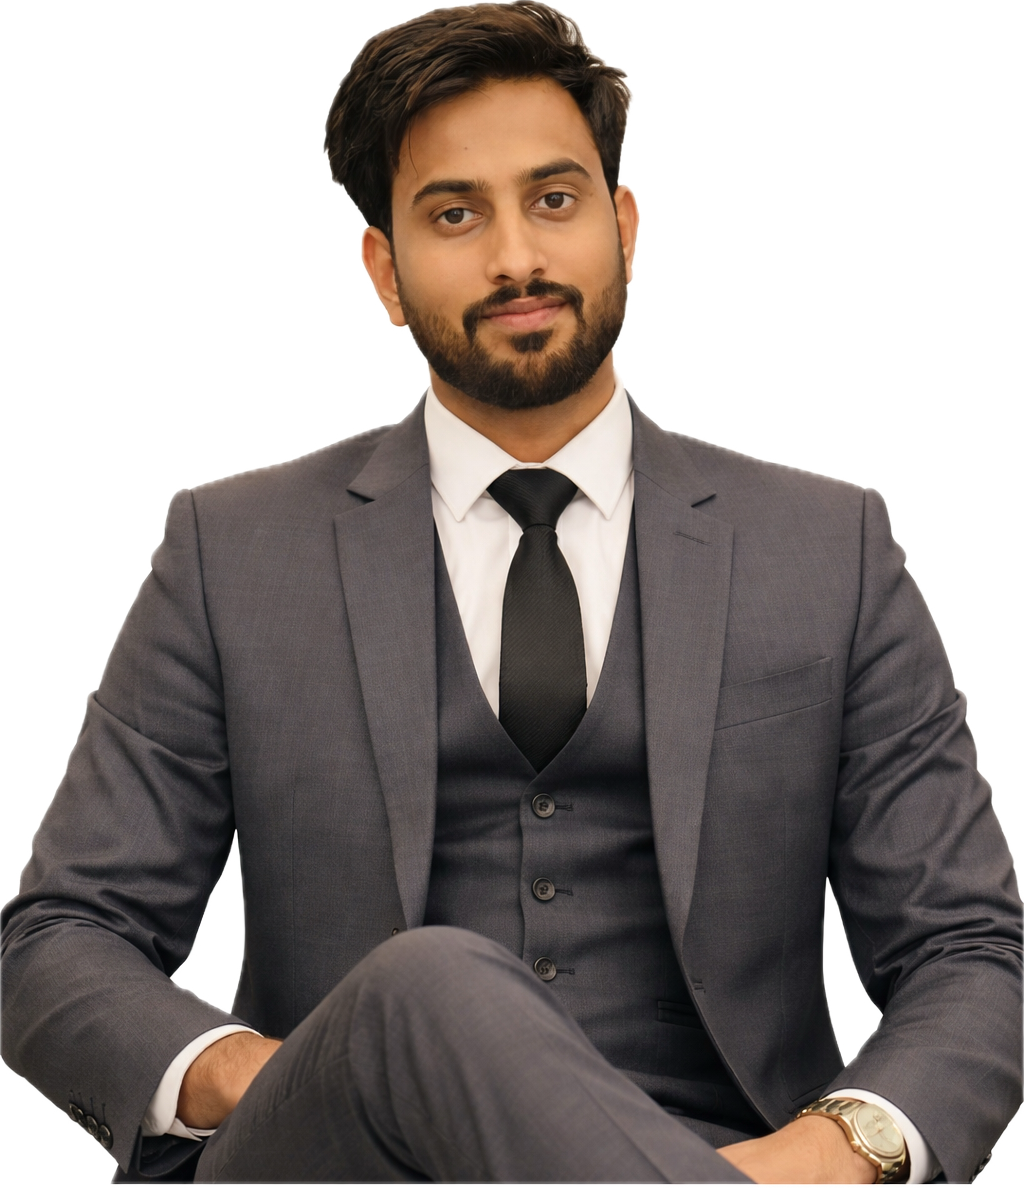
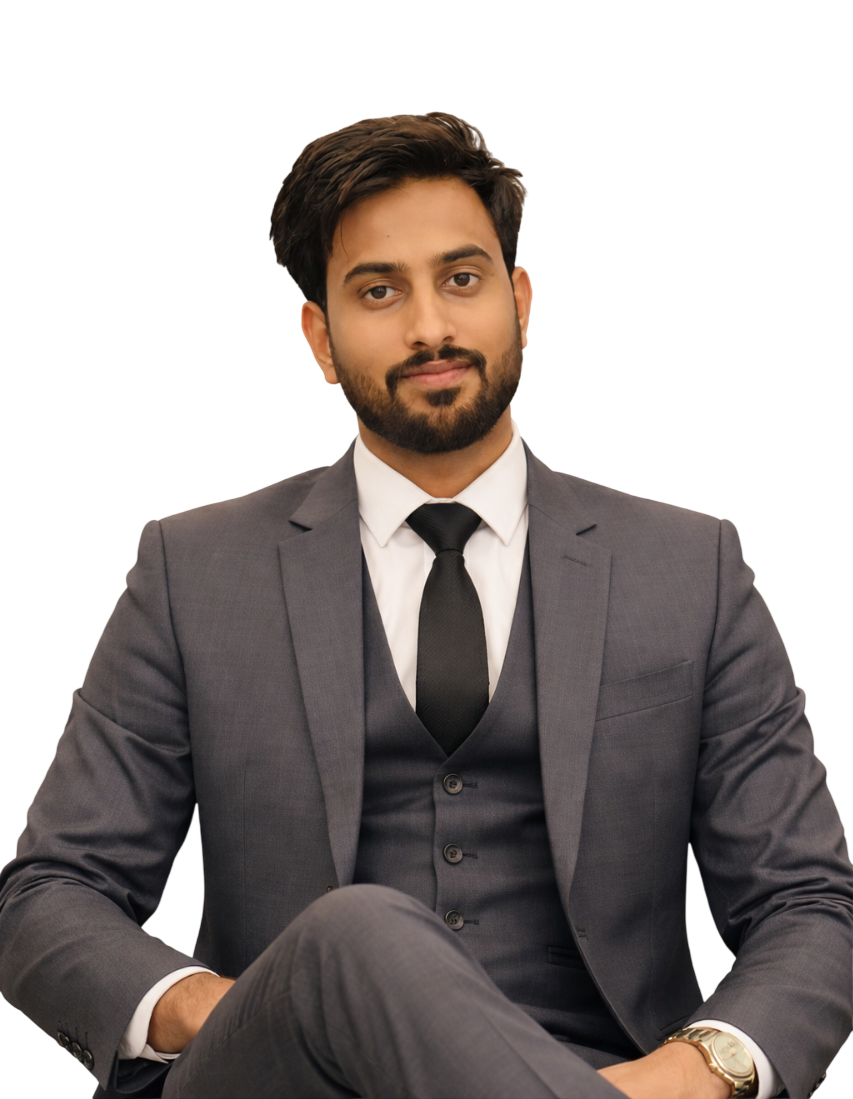
Add files via upload

diff --git a/index-light.html b/index-light.html
@@ -1007,7 +1007,7 @@
                     <div class="relative w-full aspect-square max-w-lg mx-auto">
                         <!-- Main Image Placeholder -->
                         <div class="absolute inset-0 bg-surface2 border border-gray-200 flex flex-col items-center justify-center text-gray-400 overflow-hidden">
-                             <img src="Untitled-design-2-2.webp" alt="Irfan's workspace showing business growth systems and automation tools" loading="lazy" decoding="async" class="object-cover w-full h-full">
+                             <img src="./WhatsApp Image 2025-12-21 at 12.52.44 AM.jpeg" alt="Irfan's workspace showing business growth systems and automation tools" loading="lazy" decoding="async" class="object-cover w-full h-full">
                         </div>
                         
                         
